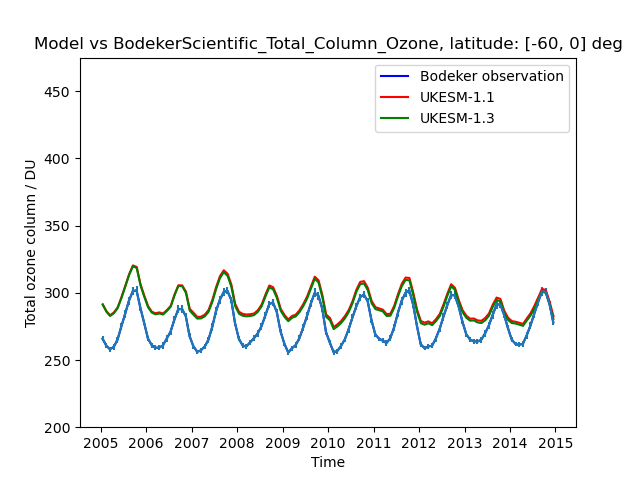
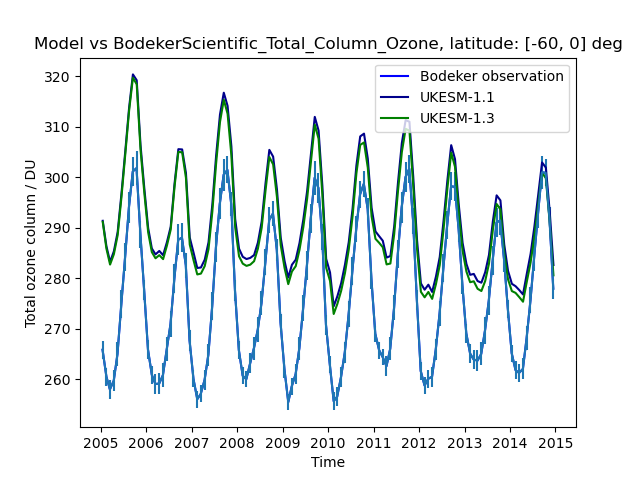
Tweaks to colours and additional lat range as suggested by Luke

diff --git a/informal/cew12/compare_ozone_satellite/compare_ozone_satellite.py b/informal/cew12/compare_ozone_satellite/compare_ozone_satellite.py
@@ -64,6 +64,7 @@ def main():
 
     latitude_ranges = [(-90,  90),
                        (-90, -60),
+                       (-60,  60),
                        (-60,   0),
                        (  0,  60),
                        ( 60,  90)]
@@ -85,10 +86,13 @@ def main():
         for model, model_cube in model_total_O3_cube.items():
             model_total_by_time = global_average_over_time(model_cube, lat_min, lat_max)
             iris.quickplot.plot(model_total_by_time, label=model,
-                                color="red" if model == "UKESM-1.1" else "green")
+                                color="darkblue" if model == "UKESM-1.1" else "green")
         plt.title(f"Model vs BodekerScientific_Total_Column_Ozone, latitude: [{lat_min}, {lat_max}] deg")
         plt.legend()
-        plt.ylim(y_range)
+
+        # Optionally set so all have same y-range:
+        #plt.ylim(y_range)
+        
         # Save before plot or get blank
         plt.savefig(f"model_vs_bodeker_total_ozone_lat_{lat_min}_{lat_max}.png")
         plt.show()
